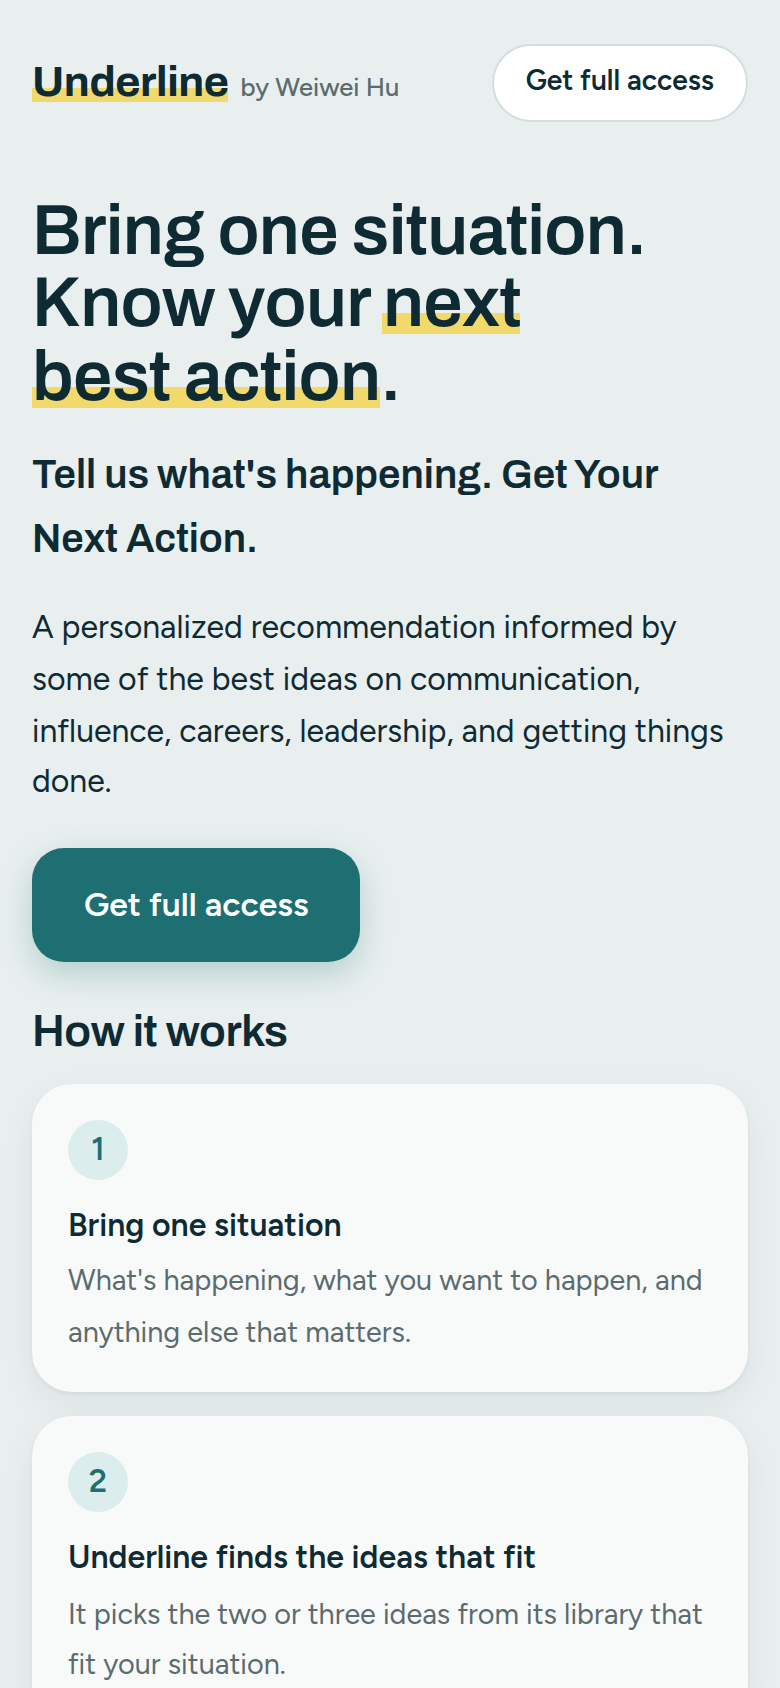
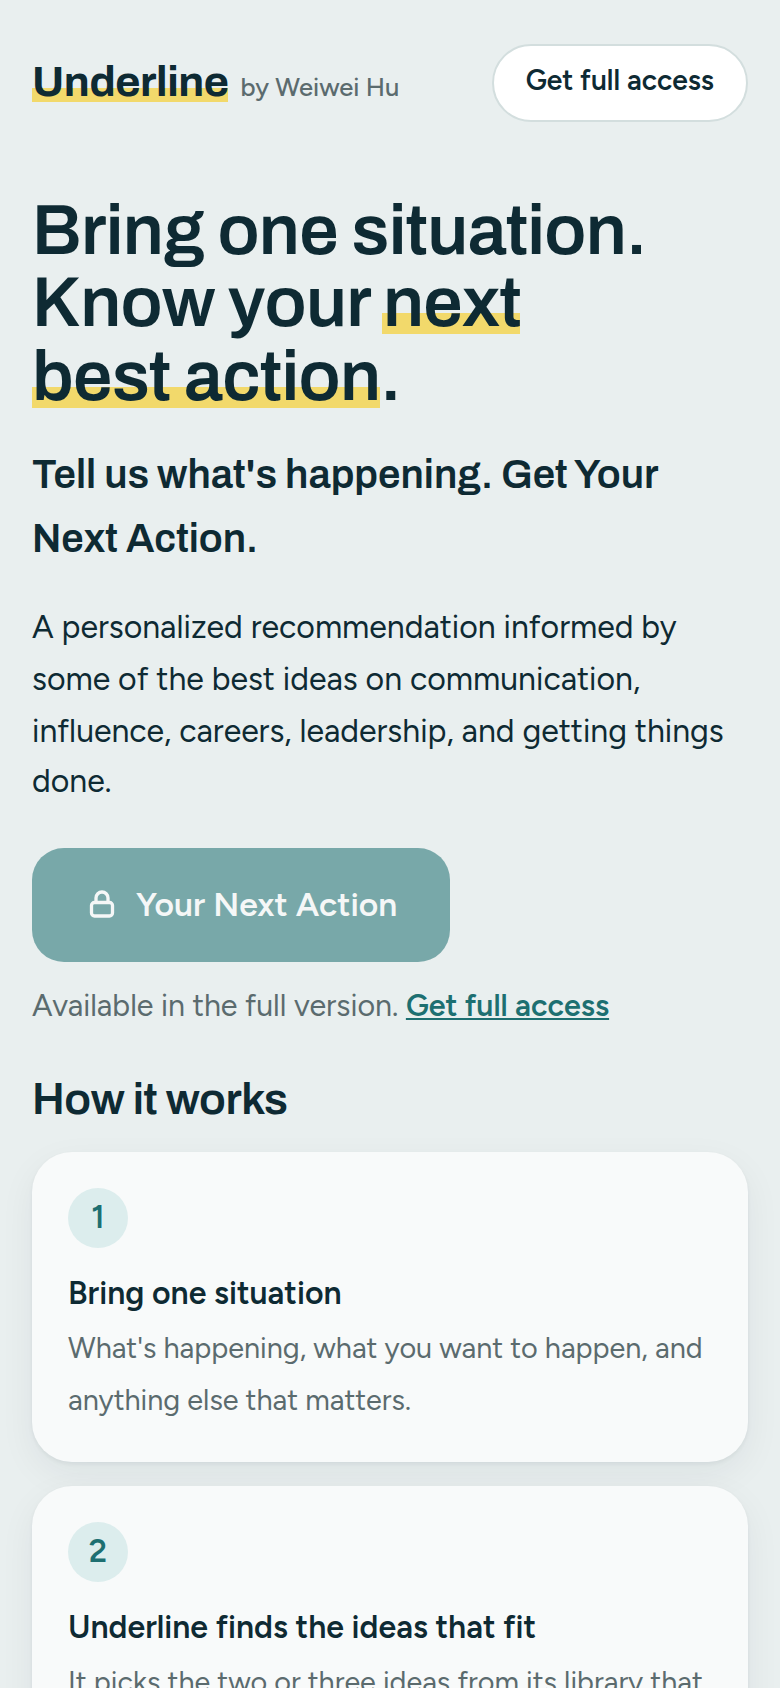
Lock the hero button: Your Next Action is for the full version

Changed region(s): [[0.0308, 0.4929, 0.9231, 1.0]]

diff --git a/index.html b/index.html
@@ -120,6 +120,9 @@ footer a{color:var(--soft)}
 .buy .small{font-size:.85rem;color:var(--soft);margin:0}
 .badge.pv::before{content:none}
 a.btn{text-decoration:none;color:var(--ink)}
+.cta.locked{border:0;gap:8px;cursor:not-allowed;opacity:.55;box-shadow:none;font-family:inherit}
+.cta.locked:hover{filter:none}
+.price a{color:var(--brand);font-weight:600}
 .underlined{list-style:none;margin:0;padding:0;display:flex;flex-direction:column;gap:10px}
 .underlined b{display:inline;font-family:var(--d);font-weight:600;background:linear-gradient(transparent 60%,var(--mark) 60%,var(--mark) 90%,transparent 90%)}
 .underlined span{display:block;font-size:.9rem;color:var(--soft);margin-top:2px}
@@ -137,7 +140,7 @@ a.btn{text-decoration:none;color:var(--ink)}
     <h1>Bring one situation. Know your <span class="hl">next best action</span>.</h1>
     <p class="lead">Tell us what's happening. Get Your Next Action.</p>
     <p>A personalized recommendation informed by some of the best ideas on communication, influence, careers, leadership, and getting things done.</p>
-    <div class="ctarow"><a class="cta" href="https://buy.stripe.com/cNi14nfzP6RKfkX9F2eQM00" target="_blank" rel="noopener">Get full access</a></div>
+    <div class="ctarow"><button class="cta locked" type="button" disabled aria-disabled="true"><svg viewBox="0 0 24 24" width="18" height="18" fill="none" stroke="currentColor" stroke-width="2.2" aria-hidden="true"><rect x="5" y="11" width="14" height="9" rx="2"/><path d="M8 11V8a4 4 0 0 1 8 0v3"/></svg>Your Next Action</button><span class="price">Available in the full version. <a href="https://buy.stripe.com/cNi14nfzP6RKfkX9F2eQM00" target="_blank" rel="noopener">Get full access</a></span></div>
   </section>
 
   <section>
